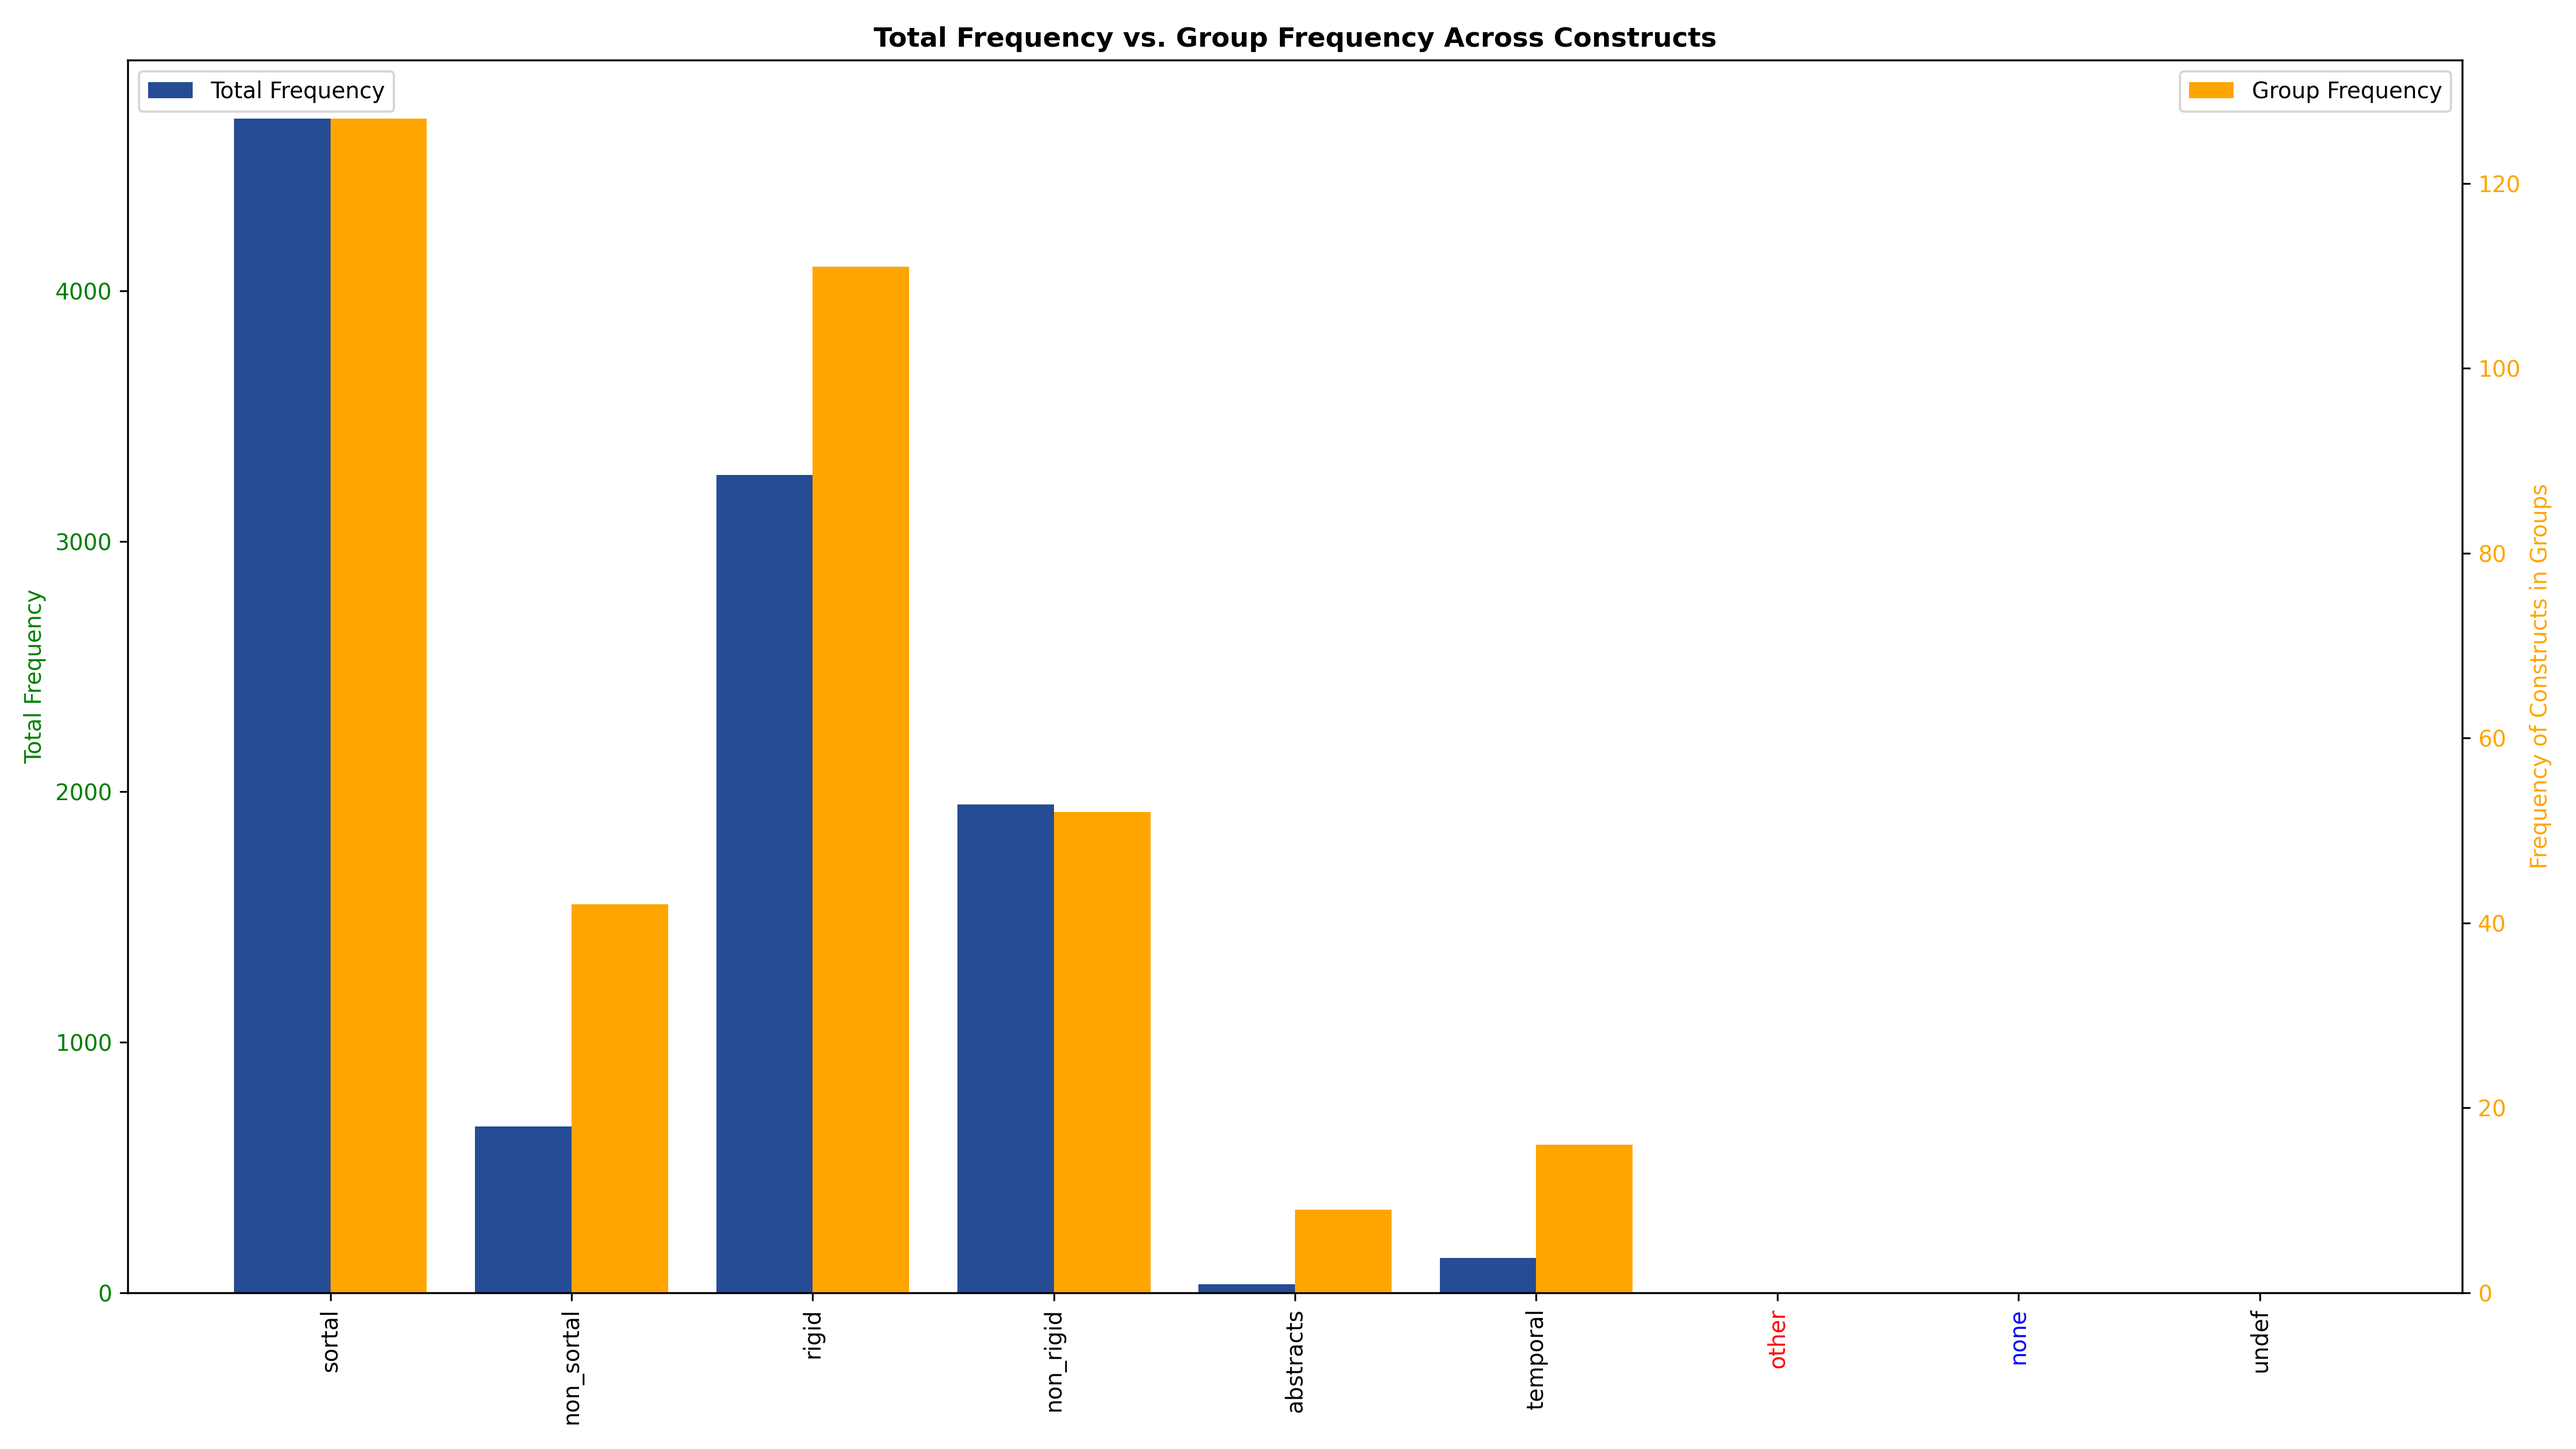
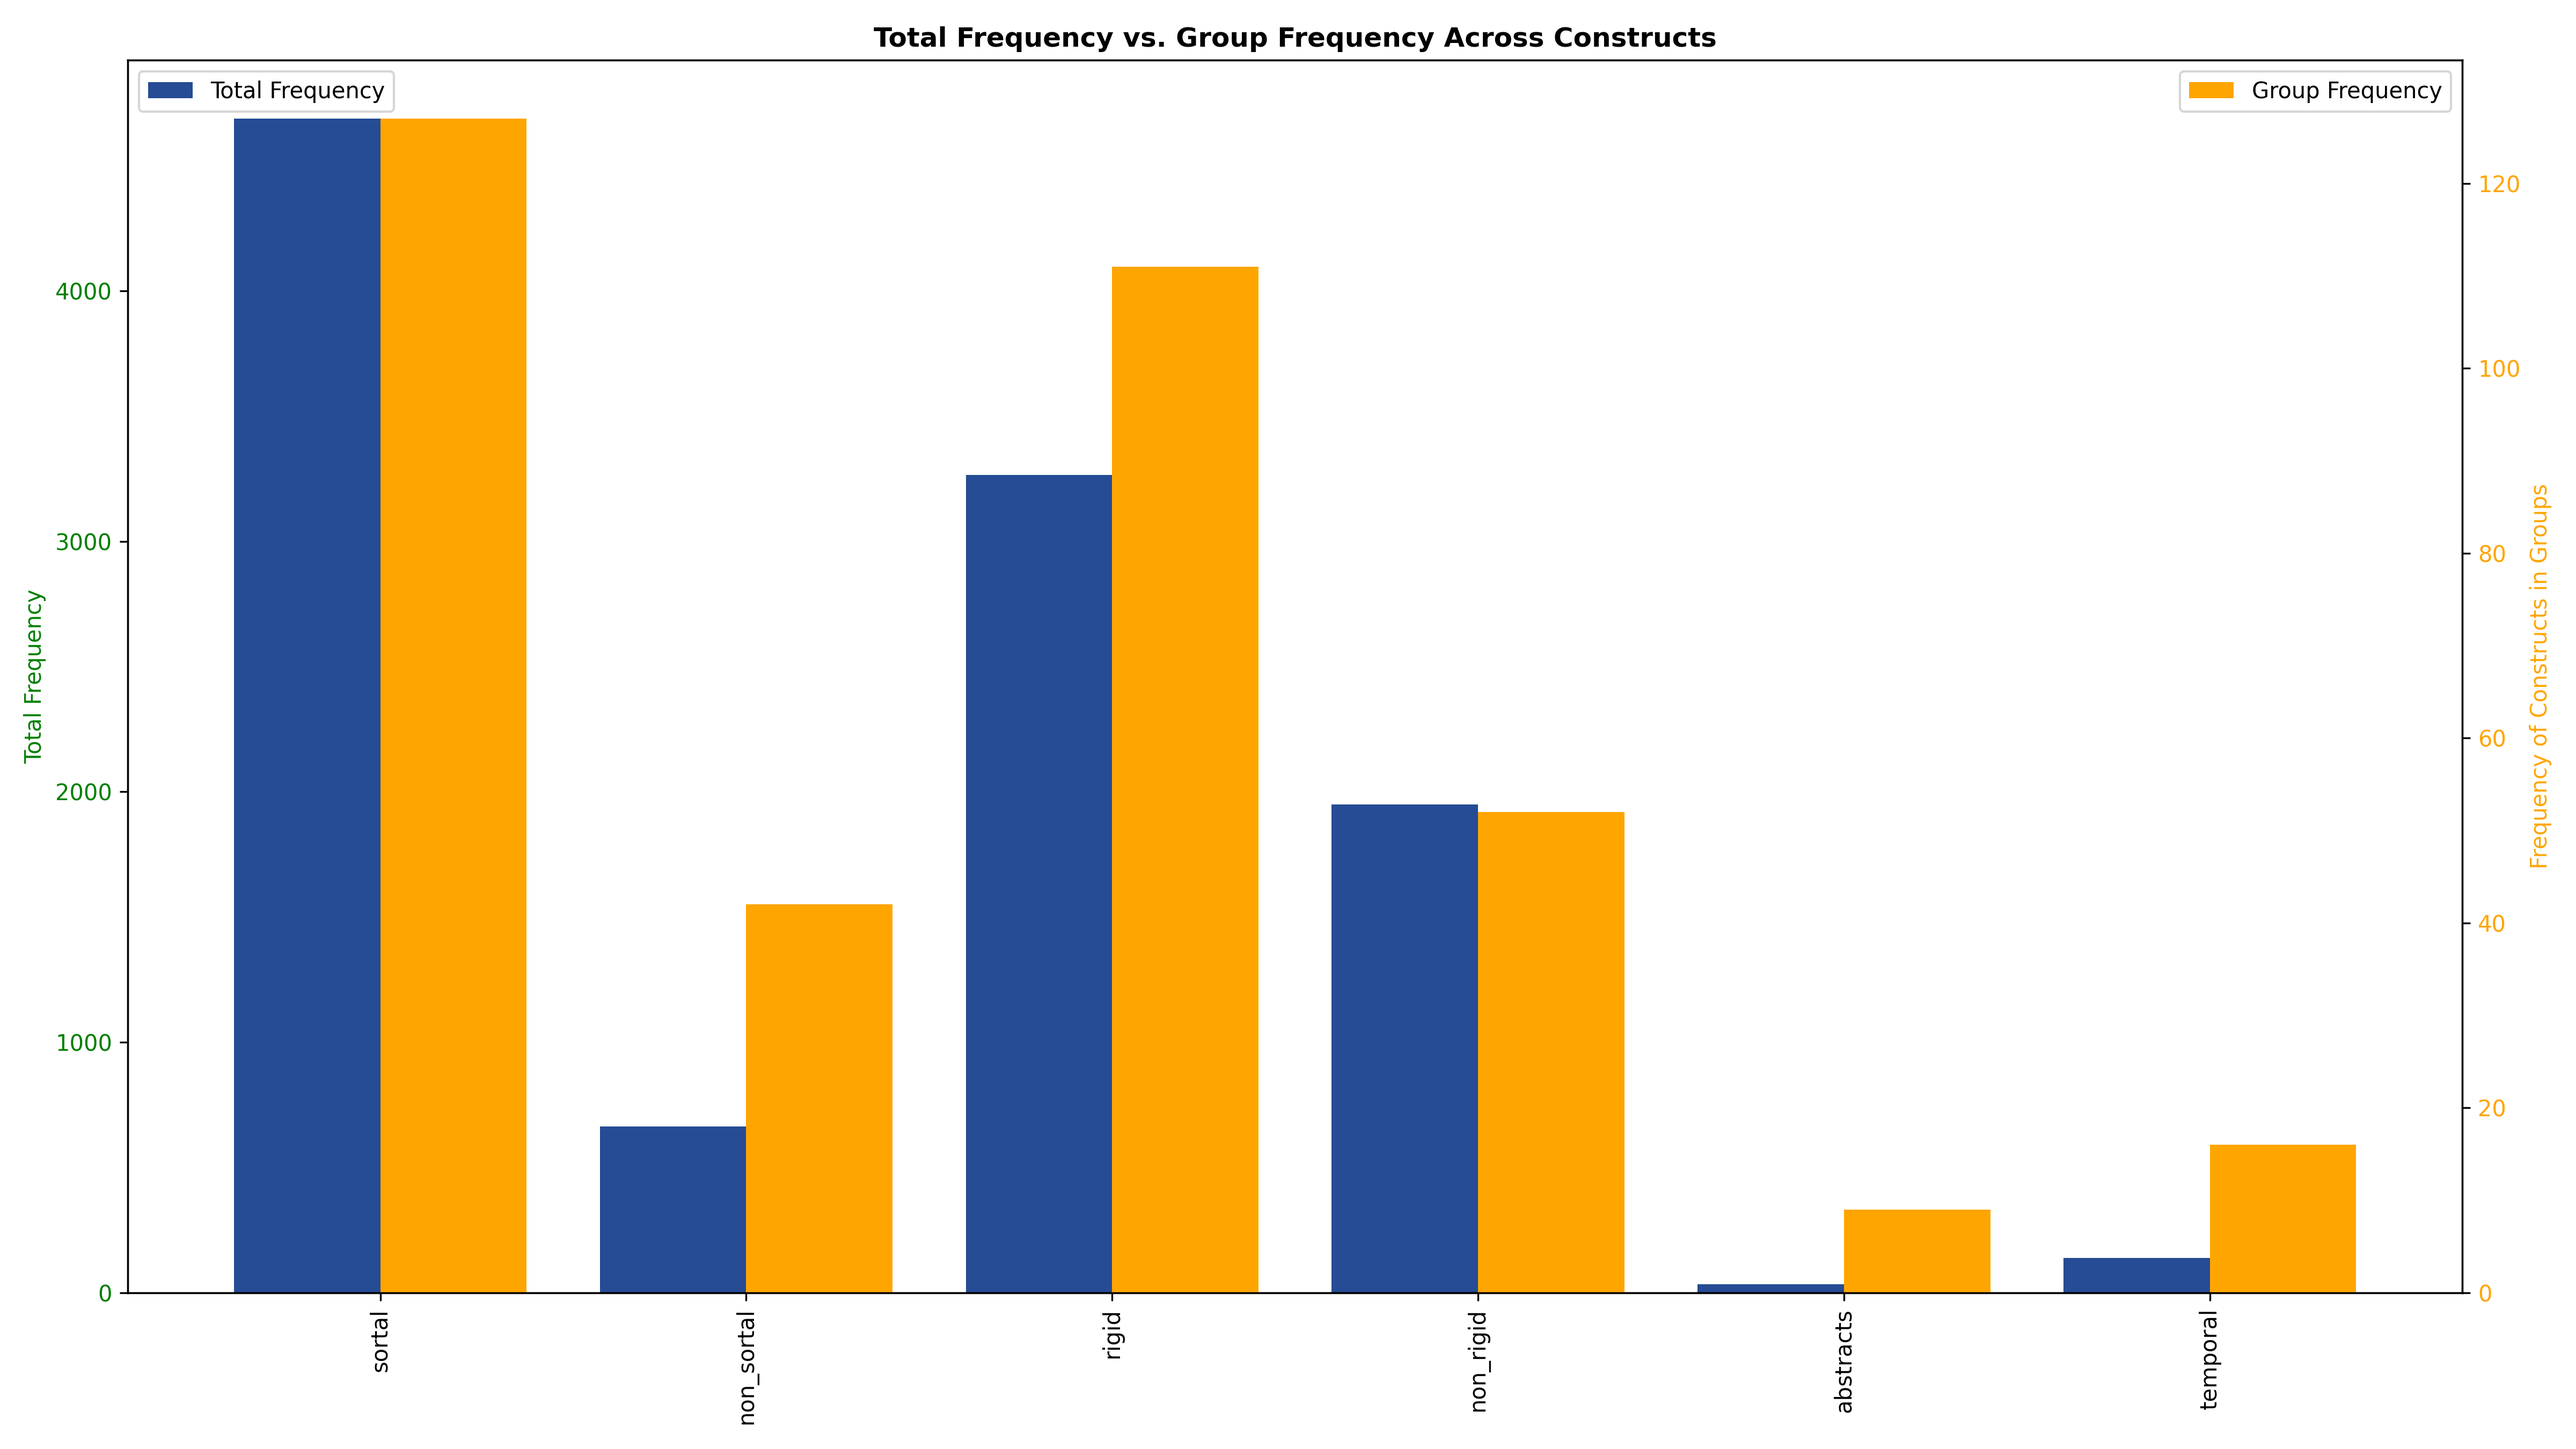
Enhance grouped visualizations.

Changed region(s): [[0.125, 0.0622, 0.6562, 0.9333], [0.6562, 0.7778, 0.9375, 0.9644]]

diff --git a/src/visualization/frequency_analysis_general.py b/src/visualization/frequency_analysis_general.py
@@ -15,6 +15,8 @@ def execute_visualization_frequency_analysis_general(in_dir_path, out_dir_path, 
     base_name = os.path.splitext(file_path)[0] + "_" if aggr else ""
 
     df = pd.read_csv(os.path.join(in_dir_path, file_path))
+    # Filter out rows (constructs) with zero occurrences in 'Total Frequency' (or other relevant metrics)
+    df = df[df['Total Frequency'] > 0]
 
     # Convert the 'Construct' column to a categorical type to ensure proper ordering in the plots
     df['Construct'] = pd.Categorical(df['Construct'], categories=df['Construct'].unique(), ordered=True)

diff --git a/src/visualization/frequency_analysis_scatter.py b/src/visualization/frequency_analysis_scatter.py
@@ -28,6 +28,9 @@ def execute_visualization_frequency_analysis_scatter(in_dir_path, out_dir_path, 
 
     df = pd.read_csv(os.path.join(in_dir_path, file_path))
 
+    # Filter out rows (constructs) with zero occurrences in 'Total Frequency' (or other relevant metrics)
+    df = df[df['Total Frequency'] > 0]
+
     # Convert the 'Construct' column to a categorical type to ensure proper ordering in the plots
     df['Construct'] = pd.Categorical(df['Construct'], categories=df['Construct'].unique(), ordered=True)
 
